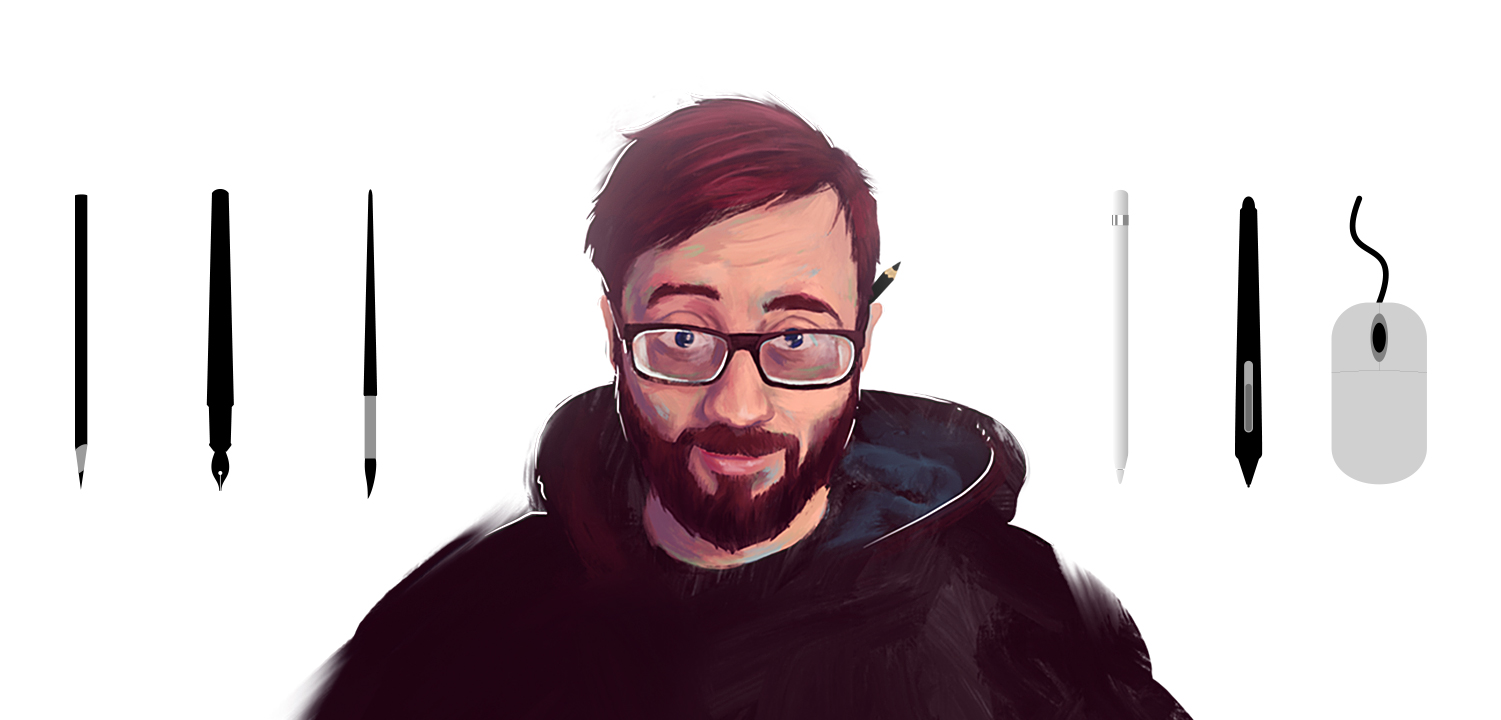
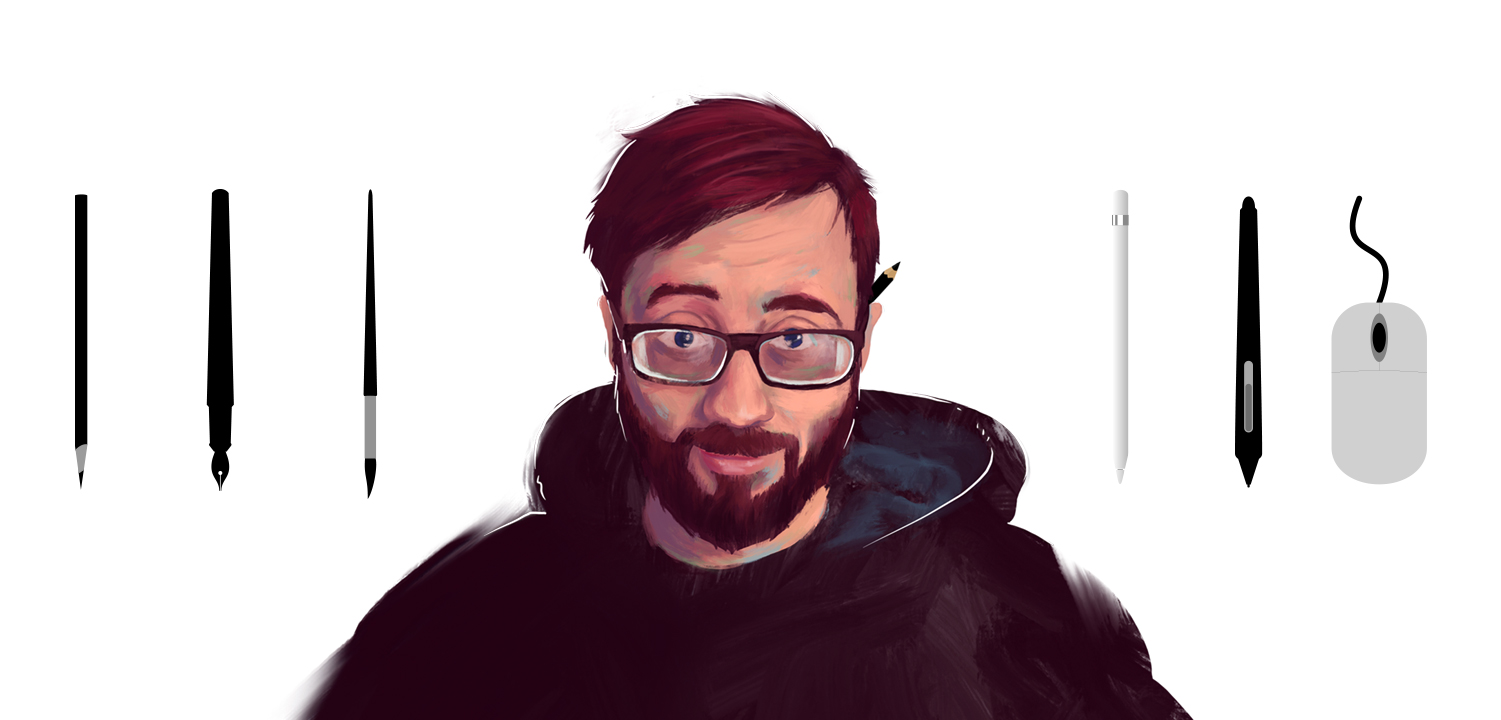
.gif recompression

diff --git a/assets/js/main.js b/assets/js/main.js
@@ -145,10 +145,10 @@
 		content.append(siriusMBK);
 	} else if (imageSrc === "images/matt_images/Illustration/starsInHerEyes.gif") {
 		let starsInHerEyes = $(
-		  '<img src="images/matt_images/Illustration/starsInHerEyes.png" data-toggle="modal" data-target=".modal-profile-lg" alt="" />'
+		  '<img src="images/matt_images/Illustration/starsInHerEyes.jpg" data-toggle="modal" data-target=".modal-profile-lg" alt="" />'
 		);
 		content.append(starsInHerEyes);
-  
+
    }  else {
       content.html($(this).html());
     }
